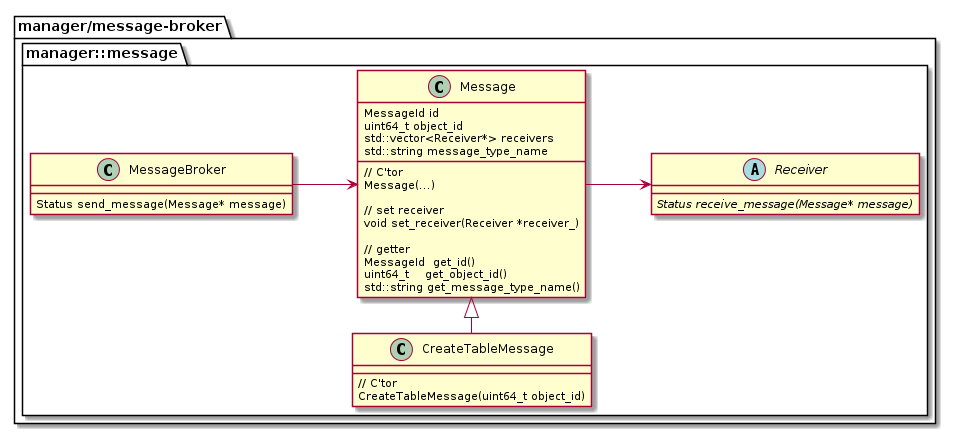
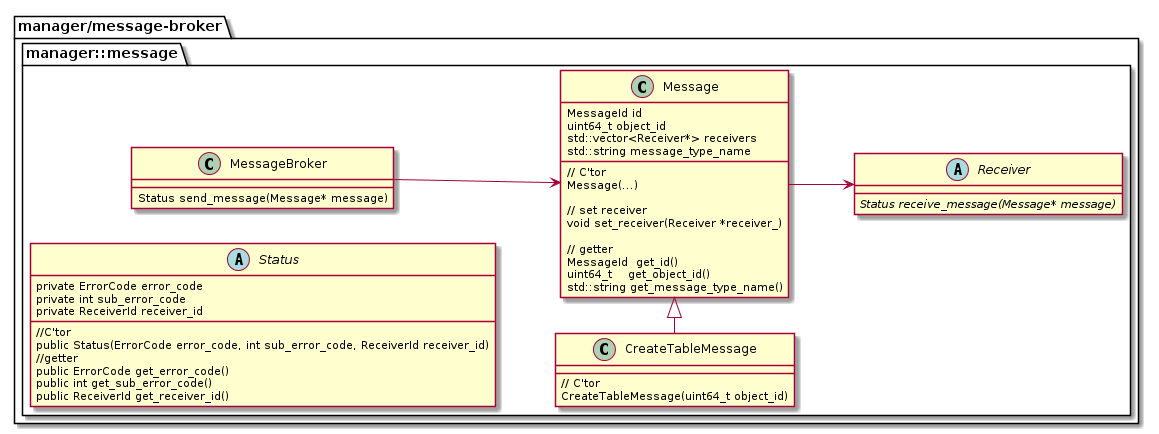
Change a type of sub error code generic type T to int

diff --git a/message-broker/docs/message-broker_API.md b/message-broker/docs/message-broker_API.md
@@ -9,6 +9,44 @@
 ![](img/out/Message/Message.png)
 
 ## 各クラスの説明
+
+### Status
+#### 説明
+* send_message()およびreceive_message()の戻り値
+
+#### クラス図
+  ![](img/out/Status/Status.png)
+
+#### フィールド
+* フィールド一覧
+
+|フィールド名|説明|エラーコードを管理するリポジトリ名|エラーコードを管理する名前空間|
+|---|---|---|---|
+|error_code|概要エラーコード|manager/message-broker|manager::message|
+|sub_error_code|詳細エラーコード|派生Receiverが配置されるリポジトリ|派生Receiverで管理|
+
+|フィールド名|説明|派生ReceiverのIDを管理するリポジトリ名|派生ReceiverのIDを管理する名前空間|
+|---|---|---|---|
+|receiver_id|派生ReceiverのID|manager/message-broker|manager::message|
+
+* 概要エラーコードと詳細エラーコードの対応表
+
+|error_code|sub_error_code|
+|---|---|
+|SUCCESS|派生Receiverで管理される成功したときのエラーコードをint型にキャストした値。 例)(int)ogawayama::stub::ErrorCode::OK|
+|FAILURE|派生Receiverで管理される成功以外のエラーコードをint型にキャストした値。 例)(int)ogawayama::stub::ErrorCode::UNKNOWN,(int)ogawayama::stub::ErrorCode::SERVER_FAILUREなど|
+
+* receiver_id
+  * 派生Receiverを一意に特定するためID
+  * 型:列挙型(enum class)
+    * 規定型:int
+    * 派生ReceiverのID一覧
+      |派生ReceiverのID|派生Receiver|
+      |---|---|
+      |ALL_RECEIVERS|すべての派生Receiver|
+      |OGAWAYAMA|ogawayama|
+      |OLAP|olap|
+
 ### MessageBroker
 #### 説明
 * メッセージを送信する。
@@ -19,8 +57,13 @@
   * 条件
     * 事前条件：Messageクラスのすべてのフィールドがセットされている。
     * 事後条件：
-      * 派生Receiverが返した概要エラーコードが「FAILURE」である場合、「FAILURE」が返ってきた時点で即座に、「FAILURE」を返した派生Receiverに対応するStatusクラスのインスタンスを返す。
-      * すべての派生Receiverが返した概要エラーコードが「SUCCESS」である場合、AllReceiversSuccessStatusクラスのインスタンスを返す。
+      * 派生Receiverが返した概要エラーコードが「FAILURE」である場合、「FAILURE」が返ってきた時点で即座に、Statusクラスのインスタンスを返す。
+      * すべての派生Receiverが返した概要エラーコードが「SUCCESS」である場合、Statusクラスのコンストラクタに次の値をセットして返す。
+          |フィールド名| 値|
+          |---|---|
+          | error_code | SUCCESS | 
+          | sub_error_code | (int)SUCCESS |
+          | receiver_id |  ALL_RECEIVERS |
       * 詳細は[Status](#status)を参照。
 
 ### Message
@@ -70,67 +113,5 @@
     * 事後条件：
       * 派生Receiverは、メッセージに対応する処理を実行後、Statusクラスのインスタンスを生成する。このとき、コンストラクタで概要エラーコード・詳細エラーコードをセットする。生成したStatusクラスのインスタンスを返す。
       * 詳細は[Status](#status)を参照。
-
-### Status
-#### 説明
-* send_message()およびreceive_message()の戻り値
-
-#### クラス図
-  ![](img/out/Status/Status.png)
-
-#### フィールド
-* フィールド一覧
-
-|フィールド名|説明|リポジトリ名|名前空間|
-|---|---|---|---|
-|error_code|概要エラーコード|manager/message-broker|manager::message|
-|sub_error_code|詳細エラーコード|派生Receiverが配置されるリポジトリ|派生Receiverで管理|
-|receiver_id|派生ReceiverのID|manager/message-broker|manager::message|
-
-* 概要エラーコードと詳細エラーコードの対応表
-
-|error_code|sub_error_code|
-|---|---|
-|SUCCESS|派生Receiverで管理される成功したときのエラーコード 例)ogawayama::stub::ErrorCode::OK|
-|FAILURE|派生Receiverで管理される成功以外のエラーコード 例)ogawayama::stub::ErrorCode::UNKNOWN,ogawayama::stub::ErrorCode::SERVER_FAILUREなど|
-
-* receiver_id
-  * 派生Receiverを一意に特定するためID
-  * 型:列挙型(enum class)
-    * 規定型:int
-    * 派生ReceiverのID一覧
-      |派生ReceiverのID|派生Receiver|
-      |---|---|
-      |ALL_RECEIVERS|すべての派生Receiver|
-      |OGAWAYAMA|ogawayama|
-      |OLAP|olap|
-
-#### AllReceiversSuccessStatus
-* send_message()メソッドの戻り値。
-* すべての派生Receiverがreceive_message()メソッドで返した概要エラーコードが「SUCCESS」である場合、send_message()メソッドの戻り値がこのクラスのインスタンスとなる。
-* コンストラクタで各フィールドに格納される値
-  |フィールド名| 値|
-  |---|---|
-  | error_code | SUCCESS | 
-  | sub_error_code | SUCCESS |
-  | receiver_id |  ALL_RECEIVERS |
-
-#### OgawayamaStatus
-* ogawayamaのstub::Transactionがreceive_message()メソッドで返す戻り値
-* コンストラクタで各フィールドに格納される値
-  |フィールド名| 値|
-  |---|---|
-  | error_code | manager/message-brokerが管理する概要エラーコード | 
-  | sub_error_code | ogawayamaが管理する詳細エラーコード |
-  | receiver_id |  OGAWAYAMA |
-
-#### OlapStatus
-* OlapReceiverがreceive_message()メソッドで返す戻り値
-* コンストラクタで各フィールドに格納される値
-  |フィールド名| 値|
-  |---|---|
-  | error_code | manager/message-brokerが管理する概要エラーコード | 
-  | sub_error_code | OLAPが管理する詳細エラーコード |
-  | receiver_id |  OLAP |
 
 以上
